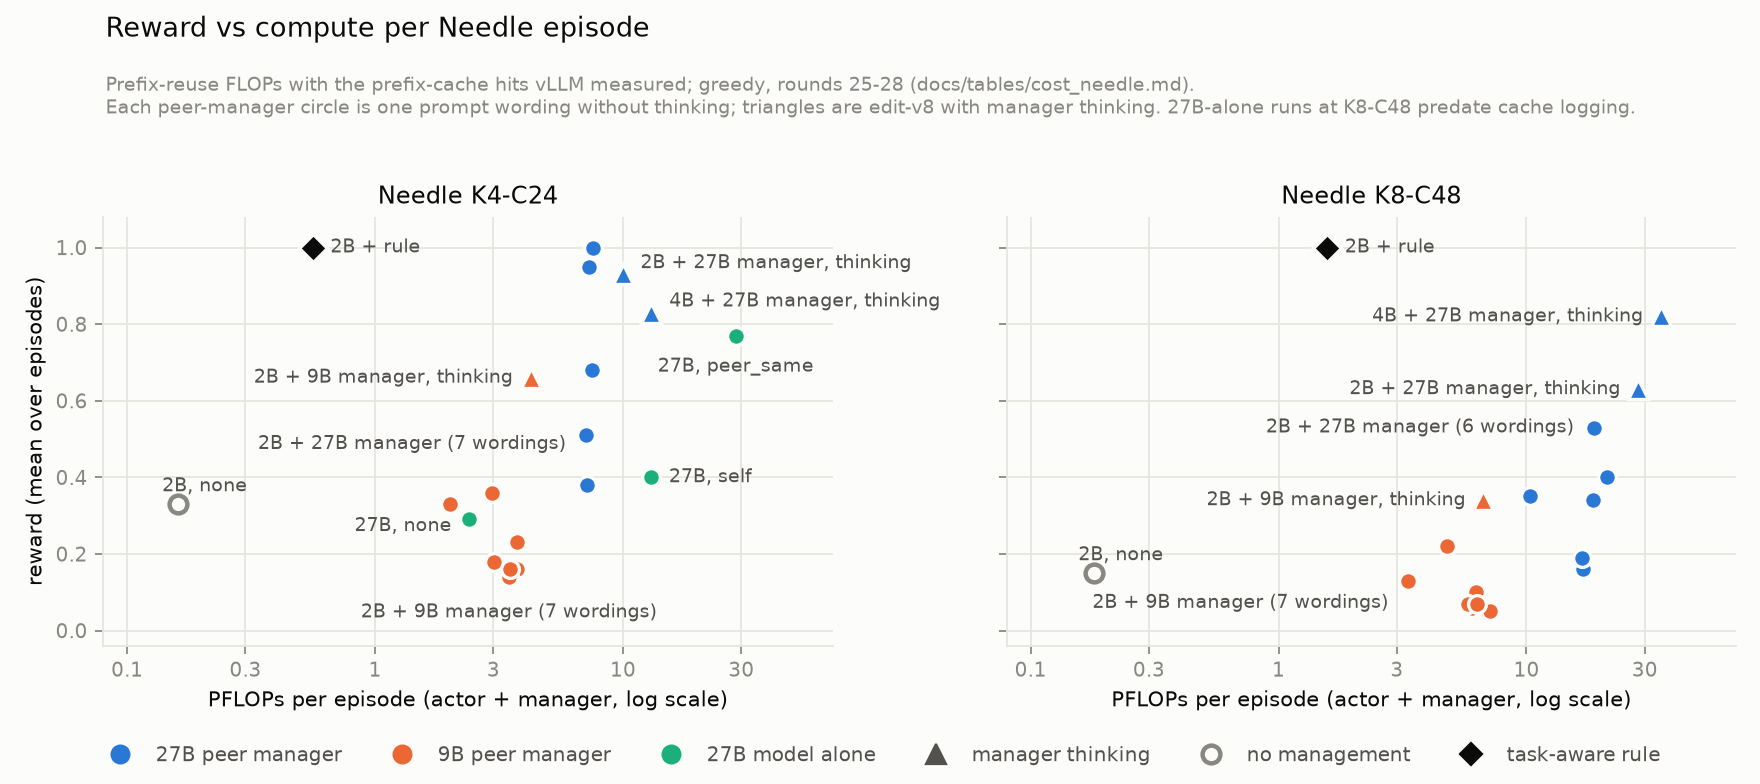
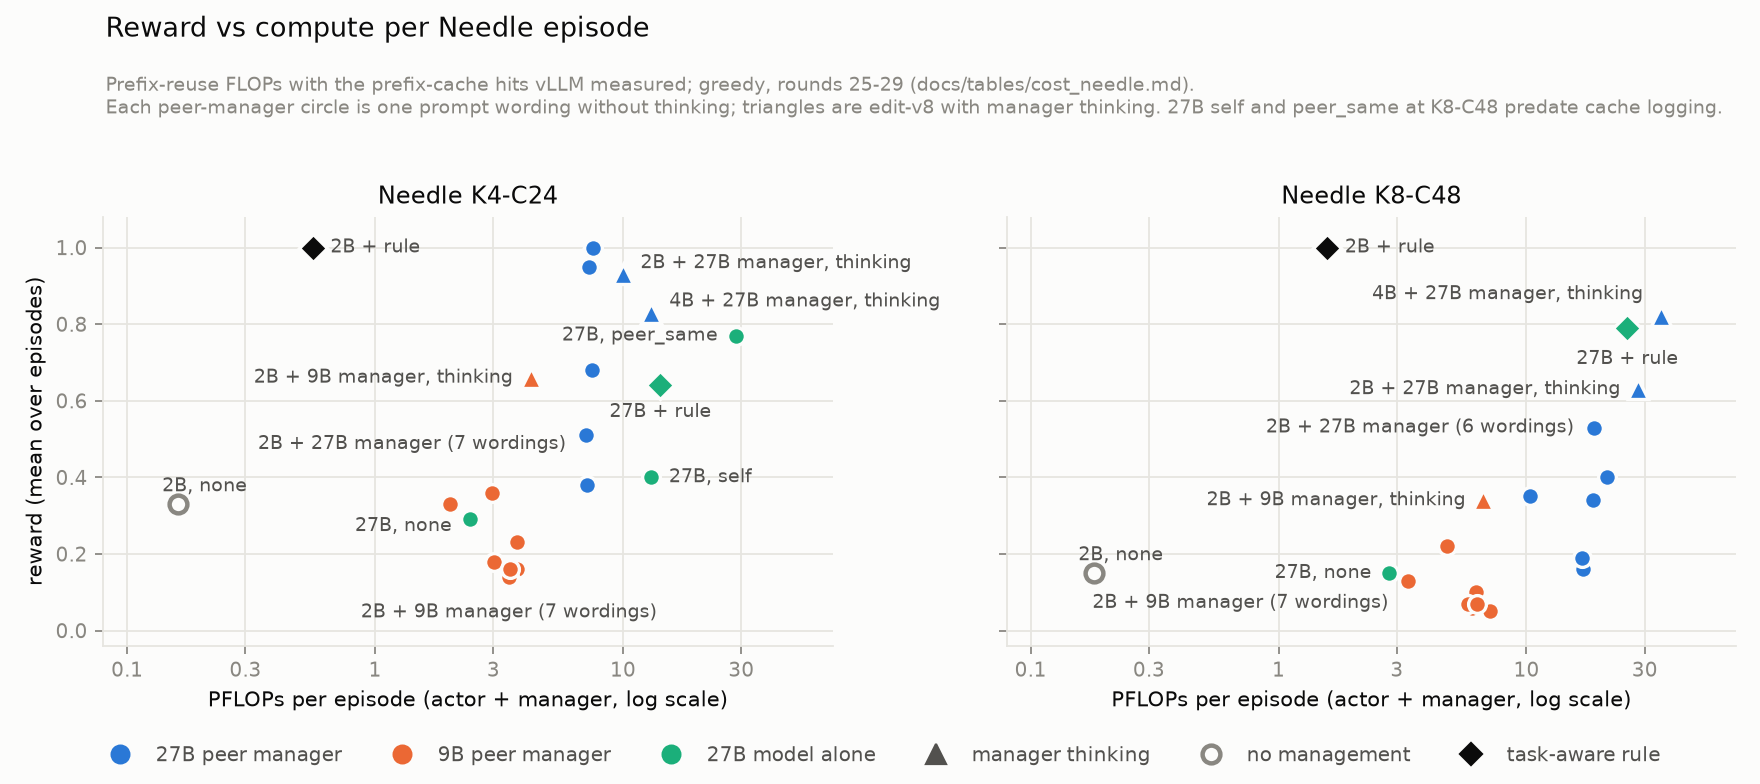
Score round 29: P11 and P12 falsified by the 27B actor's output-cap loop
Job 31451066 (Qwen3.5-27B actor alone, none and rule_needle, greedy):
27B + rule scores 0.64 at K4-C24 and 0.79 at K8-C48, so P11 is falsified
at both levels; the rule kept every delivered needle, but 7 of 8 K4 and
2 of 8 K8 episodes stopped in the output-cap loop. P12 is falsified at
K4-C24 (14.2 PF vs 8.7 predicted) and within 6% at K8-C48. Adds the
episodes to the tables, the 27B + rule point to the cost figure, and the
v2 verdicts to results.md and the outline.

diff --git a/scripts/plot_cost.py b/scripts/plot_cost.py
@@ -33,6 +33,7 @@ GROUPS = {
     ("27B", "none"): ("27B, none", AQUA),
     ("27B", "self"): ("27B, self", AQUA),
     ("27B", "peer_same"): ("27B, peer_same", AQUA),
+    ("27B", "rule_needle"): ("27B + rule", AQUA),
 }
 # Label offsets in points (dx, dy, ha) per (level, label).
 OFFSETS = {
@@ -45,14 +46,17 @@ OFFSETS = {
     ("K4-C24", "4B + 27B manager, thinking"): (8, 5, "left"),
     ("K4-C24", "27B, none"): (-8, -3, "right"),
     ("K4-C24", "27B, self"): (8, 0, "left"),
-    ("K4-C24", "27B, peer_same"): (0, -14, "center"),
+    ("K4-C24", "27B, peer_same"): (-8, 0, "right"),
+    ("K4-C24", "27B + rule"): (0, -12, "center"),
     ("K8-C48", "2B, none"): (-7, 8, "left"),
     ("K8-C48", "2B + rule"): (8, 0, "left"),
     ("K8-C48", "2B + 9B manager"): (-9, -10, "right"),
     ("K8-C48", "2B + 9B manager, thinking"): (-8, 0, "right"),
     ("K8-C48", "2B + 27B manager"): (-9, 0, "right"),
     ("K8-C48", "2B + 27B manager, thinking"): (-8, 0, "right"),
-    ("K8-C48", "4B + 27B manager, thinking"): (-8, 0, "right"),
+    ("K8-C48", "4B + 27B manager, thinking"): (-8, 10, "right"),
+    ("K8-C48", "27B, none"): (-8, 0, "right"),
+    ("K8-C48", "27B + rule"): (0, -14, "center"),
 }
 # Which dot of a multi-wording cluster carries its label.
 ANCHORS = {
@@ -180,9 +184,9 @@ fig.text(
     0.06,
     0.905,
     "Prefix-reuse FLOPs with the prefix-cache hits vLLM measured; greedy, "
-    "rounds 25-28 (docs/tables/cost_needle.md).\nEach peer-manager circle is one prompt "
-    "wording without thinking; triangles are edit-v8 with manager thinking. 27B-alone runs at "
-    "K8-C48 predate cache logging.",
+    "rounds 25-29 (docs/tables/cost_needle.md).\nEach peer-manager circle is one prompt "
+    "wording without thinking; triangles are edit-v8 with manager thinking. 27B self and "
+    "peer_same at K8-C48 predate cache logging.",
     fontsize=8.5,
     color=MUTED,
     ha="left",

diff --git a/docs/results.md b/docs/results.md
@@ -8,7 +8,7 @@ and `peer_<size>` (a fixed manager of another size; mainly `peer_27b`). Managers
 (zero-shot). Each cell has 8 seeds (42–49) unless noted; differences are paired on the same instance.
 Greedy decoding with thinking off unless noted.
 
-Sources: `docs/tables/episodes_vllm.csv` (2,904 episodes), `docs/tables/h200_bf16_pooled.md` (greedy
+Sources: `docs/tables/episodes_vllm.csv` (2,936 episodes), `docs/tables/h200_bf16_pooled.md` (greedy
 grid), `docs/tables/decoding_ablation.md` (greedy vs sampled), `docs/tables/cost_needle.md` (compute
 per episode), `docs/tables/termination_needle.md` (how episodes end; reward = delivered × kept),
 `docs/figures/`. Run log: `CLAUDE.md`.
@@ -26,7 +26,10 @@ points are in "Limits" at the end.
    (`scripts/simulate_rule_needle.py` on `may/track2-baseline`); run live with the 2B actor it also
    scores 1.000 on all 8 seeds at K4-C24 and K8-C48 (job 31255831). So on Needle a manager that helps is
    doing the retention itself; the actor contributes little (0.8B and 2B score alike under the 27B
-   manager). Results 1, 2 and 7 measure how close zero-shot managers get to this rule.
+   manager). The "actor that only advances" is an assumption the 27B actor breaks: with the same rule
+   it scores 0.64 at K4-C24 and 0.79 at K8-C48 (job 31451066), because it restates every needle in
+   each reply until the reply is cut at the output cap and the stream stops (Limits). The rule kept
+   every delivered needle (kept = 1.00); 7 of 8 K4 and 2 of 8 K8 episodes ended in that loop. Results 1, 2 and 7 measure how close zero-shot managers get to this rule.
 
 ## Findings
 
@@ -99,8 +102,8 @@ points are in "Limits" at the end.
    GETs, 4B rarely or never). The 2B actor's ANSWER format breaks when the archive paragraph is added
    (`none_r` 0.00 vs `none` 0.46), so small actors are sensitive to instruction length; 2B is excluded.
 
-6. **Pre-registered validation: no prediction falsified; most informative ones inconclusive.** Ten
-   predictions were committed (`docs/preregistration.md`, tag `prereg-v1`) before new seeds (50–65)
+6. **Pre-registered validation: v1 had none falsified, most informative tests inconclusive; v2 had
+   two falsified by the 27B actor's output-cap loop.** Ten predictions were committed (`docs/preregistration.md`, tag `prereg-v1`) before new seeds (50–65)
    and two held-out levels: 7 confirmed, 3 inconclusive, 0 falsified
    (`docs/preregistration-results.md`). Five were structural guards that could hardly fail (P2: `self`
    equals `none`; P3/P6: `none` is 0 at KV R1000 by construction; P7: archived needles cannot count
@@ -108,6 +111,18 @@ points are in "Limits" at the end.
    2 were confirmed (P1: 27B manager gain on new seeds; P10: gain at the held-out K2-C192 level) and 3
    were inconclusive (P4, P5, P9; see the results file). New seeds reuse each level's layout, so only
    P9–P10 test a new layout.
+   Pre-registration v2 (`docs/preregistration-v2.md`, round 29) has two falsified, one confirmed and
+   one inconclusive:
+   - **P11 falsified:** 27B actor + rule 0.64 (K4-C24) and 0.79 (K8-C48), below 0.90 at both levels.
+     The cause is the output-cap loop (finding 0, Limits); this explanation is post hoc.
+   - **P12 falsified:** 14.2 PF per episode at K4-C24 against 8.7 predicted (+63%); 25.5 PF at
+     K8-C48 against 24.1 (+6%). At K4 the number measures the loop: 7 of 8 episodes made 58 actor
+     calls for 14 of 24 ops, 45 of them cut at the cap.
+   - **P13 confirmed:** recommended sampling does not rescue the 9B manager: `peer_9b` − `none`, both
+     sampled, −0.19 [−0.22, −0.17] at K4-C24 (0/8 seeds) and −0.06 [−0.09, −0.03] at K8-C48 (1/7).
+   - **P14 inconclusive:** protective share 0.03 at K4-C24, 0.14 at K8-C48 (between 0.10 and 0.25).
+     Exploratory: 9B replies cut at the 4,096-token manager cap fall from 0.38 / 0.08 (greedy) to 0 / 0
+     under sampling, and the extra applied edits are unprotected deletes.
 
 7. **Manager-size ladder: without thinking only the 27B manager helps, under seven prompt wordings;
    with thinking both 9B and 27B help, and 27B stays ahead.** Needle, greedy, 8 seeds, `none` rerun
@@ -187,7 +202,7 @@ points are in "Limits" at the end.
    `config.json`; the 27B gives CLM's 48.70 GFLOP/token and 3.93×10⁵ per query-key pair) with the
    prefix-cache hits vLLM measured, and GPU-seconds (summed call latency; actor and manager share one
    H200, one call at a time). Means per episode from `docs/tables/cost_needle.md`, which covers only
-   runs that logged cache hits (rounds 25–28); figure `docs/figures/needle_reward_vs_compute.png`
+   runs that logged cache hits (rounds 25–29); figure `docs/figures/needle_reward_vs_compute.png`
    (`scripts/plot_cost.py`):
 
    | level | system | reward | PFLOPs | manager share | GPU-s |
@@ -201,8 +216,11 @@ points are in "Limits" at the end.
    | K4-C24 | 27B `none` | 0.29 | 2.4 | – | 53 |
    | K4-C24 | 27B `self` | 0.40 | 13.0 | 10% | 576 |
    | K4-C24 | 27B `peer_same` | 0.77 | 28.5 | 48% | 1,312 |
+   | K4-C24 | 27B + `rule_needle` | 0.64 | 14.2 | – | 1,461 |
    | K8-C48 | 2B `none` | 0.15 | 0.18 | – | 5 |
    | K8-C48 | 2B + `rule_needle` | 1.00 | 1.6 | – | 35 |
+   | K8-C48 | 27B `none` | 0.15 | 2.8 | – | 101 |
+   | K8-C48 | 27B + `rule_needle` | 0.79 | 25.5 | – | 1,152 |
    | K8-C48 | 2B + 9B manager, thinking | 0.34 | 6.7 | 93% | 423 |
    | K8-C48 | 2B + 27B manager (`para2`) | 0.53 | 18.7 | 96% | 281 |
    | K8-C48 | 2B + 27B manager, thinking | 0.63 | 28.2 | 97% | 1,503 |
@@ -223,8 +241,9 @@ points are in "Limits" at the end.
      manager with thinking uses 1.3× the FLOPs and 4× the GPU time of v8 for no gain; at K8-C48 it
      adds +0.10 over the best wording without thinking (`para2`) for 1.5× the FLOPs and 5× the GPU
      time.
-   - The 27B `self` and `peer_same` rows include actor turns spent in output-cap loops (Limits), so
-     their cost is partly the loop, not management.
+   - The 27B `self`, `peer_same` and `rule_needle` rows include actor turns spent in output-cap
+     loops (Limits), so their cost is partly the loop, not management (27B + rule at K4-C24: 58 actor
+     calls for 14 ops in 7 of 8 episodes).
    - `none` is cheap because it stops at the budget wall after about 7 of 24 (K4-C24) or 48 (K8-C48)
      operations. FLOPs omit norms, softmax and the DeltaNet state update; GPU-seconds are batch-1
      calls on a shared H200 and do not transfer to other deployments.
@@ -273,9 +292,9 @@ points are in "Limits" at the end.
   so far (smaller actors restate only the current op's, so their replies stay at ~170 tokens at K4
   and ~320 at K8). Once management keeps the context under the wall, the reply grows until it is cut
   at the 2,048-token output cap, before `READY_FOR_NEXT_OP`; the stream does not advance, the runner's
-  reminder yields the same cut reply, and the episode loops until the turn cap. 38 of 120 managed
-  27B-actor Needle episodes end at `max_steps`, 22 of them with their last 5 replies all cut at the
-  cap; for smaller actors it is 0–6 episodes per size (the 4B actor under thinking managers has 5 cap
+  reminder yields the same cut reply, and the episode loops until the turn cap. 47 of 136 managed
+  27B-actor Needle episodes end at `max_steps`, 31 of them with their last 5 replies all cut at the
+  cap (9 of the 31 are 27B + rule, round 29); for smaller actors it is 0–6 episodes per size (the 4B actor under thinking managers has 5 cap
   loops). Doubling the turn cap changed means by +0.02, which is what an absorbing loop predicts; an
   earlier version of this line read that as "the cap is not driving those results", which was wrong.
   27B-actor rewards are lower bounds wherever delivered < 1 (`docs/tables/termination_needle.md`).

diff --git a/report/paper_outline.md b/report/paper_outline.md
@@ -12,14 +12,14 @@ wall its replies hit the output cap and the stream stops; `docs/tables/terminati
 
 | # | Section (pages) | Claim | Carried by | Status |
 |---|---|---|---|---|
-| 1 | Introduction (0.5) | Who edits a small actor's live context matters only through whether the edits preserve before deleting; capability, not role, decides it; external editing costs about T/(T−R) × the same model reading the stream. | Fig. 1: reward vs PFLOPs, Needle K4-C24 and K8-C48 (`docs/figures/needle_reward_vs_compute.png`). | exists; adds the 27B + rule point and the Gemma rows (pending) |
+| 1 | Introduction (0.5) | Who edits a small actor's live context matters only through whether the edits preserve before deleting; capability, not role, decides it; external editing costs about T/(T−R) × the same model reading the stream. | Fig. 1: reward vs PFLOPs, Needle K4-C24 and K8-C48 (`docs/figures/needle_reward_vs_compute.png`). | exists, with the 27B + rule point; Gemma rows pending |
 | 2 | Setup: Needle as a probe with a known policy (0.6) | Needle labels what to keep and a no-LLM rule scores 1.00 at every level, so managers are scored on executing a known policy. KV tests exact recall. Conditions separate role (self vs `peer_same`) from capability (`peer_same` vs fixed larger manager). | Table 1: conditions; rule 1.00 vs `none` 1.00 → 0.04 across levels [0]. | exists |
-| 3 | Who can execute it: the manager ladder (0.8) | Without thinking, only the 27B manager helps, under seven wordings (+0.02 to +0.67); 9B hurts; 4B and same-size do nothing. Thinking partly rescues 9B; 27B with thinking stays ahead. | Table 2: diff vs `none` with CIs (`docs/tables/paired_needle.md`), min/median/max over wordings, ± thinking [1, 7]. | exists; Gemma rows and 9B sampled (P13) pending |
+| 3 | Who can execute it: the manager ladder (0.8) | Without thinking, only the 27B manager helps, under seven wordings (+0.02 to +0.67); 9B hurts; 4B and same-size do nothing. Thinking partly rescues 9B; 27B with thinking stays ahead. | Table 2: diff vs `none` with CIs (`docs/tables/paired_needle.md`), min/median/max over wordings, ± thinking [1, 7]. | exists; 9B sampled done (P13 confirmed); Gemma rows pending |
 | 4 | Why: preserve before delete (0.5) | Gain over `none` tracks the share of manager edits that note or replace: Spearman 0.67 / 0.62 over 119 cells. Necessary, not sufficient: managers that note but never delete hit the wall. | Fig. 2: `docs/figures/needle_protective_vs_gain.png`; event taxonomy (`docs/tables/mechanism_needle.md`) [9]. | exists; replay probe (identical inputs, Qwen + Gemma) pending |
 | 5 | Same-size management and decoding (0.3) | Same-size management never helps ≤ 4B and hurts 9B. The 27B role effect (`peer_same` > `self`) holds under greedy at K4-C24, where both arms receive the whole stream; at K8-C48 and under sampling it is mixed with the 27B actor's output-cap loop. | Table 3: greedy vs sampled (`docs/tables/decoding_ablation.md`), delivered × kept split (`docs/tables/termination_needle.md`) [2, 4]. | exists |
 | 6 | Irreversibility (0.5) | Deletion destroys exact KV recall; archive-with-recall restores it and manager identity stops mattering; the limit becomes the actor's initiative to recall. Agrees with ARC, MemGPT, VISTA. | Table 4: delete vs archive [3, 5]. | exists |
-| 7 | Cost of external management (0.4) | Without prefix-cache hits a peer manager reads about S·T/(T−R) tokens (measured/predicted median 0.94); a 27B manager that keeps little reads each streamed token about once, so a small actor + 27B manager costs about the 27B reading the stream itself. The rule on the 2B actor is cheaper than both. | Eq. 1 + Table 5 (`docs/tables/cost_law_needle.md`, `docs/tables/cost_needle.md`) [8]. | exists; 27B + rule point (P12) pending |
-| 8 | Boundary, pre-registration, limits (0.4) | When relevance needs judgment (MuSiQue), even the best cheap rule loses full evidence for most questions at K = 8, and keeping later hops requires answering earlier ones, so selection and task skill are entangled (stated as a premise with prior art: MuSiQue, IRCoT, IterCOMP). Pre-registration v1: 2 of 5 informative tests confirmed, 3 inconclusive; v2: P11-P14. Limits: one layout per level, two tasks, one model family (plus Gemma), untrained managers; 27B-actor rewards are lower bounds where the output-cap loop stops the stream (report how every cell ends). | Table 6: rule full-recall by K (offline simulation); optional selector-probe result. | simulation exists (scratch); probe optional |
+| 7 | Cost of external management (0.4) | Without prefix-cache hits a peer manager reads about S·T/(T−R) tokens (measured/predicted median 0.94); a 27B manager that keeps little reads each streamed token about once, so a small actor + 27B manager costs about the 27B reading the stream itself. The rule on the 2B actor is cheaper than both. | Eq. 1 + Table 5 (`docs/tables/cost_law_needle.md`, `docs/tables/cost_needle.md`) [8]. | exists; 27B + rule measured (P12 falsified: the K4 number is the output-cap loop) |
+| 8 | Boundary, pre-registration, limits (0.4) | When relevance needs judgment (MuSiQue), even the best cheap rule loses full evidence for most questions at K = 8, and keeping later hops requires answering earlier ones, so selection and task skill are entangled (stated as a premise with prior art: MuSiQue, IRCoT, IterCOMP). Pre-registration v1: 2 of 5 informative tests confirmed, 3 inconclusive; v2: P11 and P12 falsified (27B actor's output-cap loop), P13 confirmed, P14 inconclusive; v3: replay probe (draft). Limits: one layout per level, two tasks, one model family (plus Gemma), untrained managers; 27B-actor rewards are lower bounds where the output-cap loop stops the stream (report how every cell ends). | Table 6: rule full-recall by K (offline simulation); optional selector-probe result. | simulation exists (scratch); probe optional |
 
 ## Figures and tables (main text)
 

diff --git a/docs/tables/termination_needle.md b/docs/tables/termination_needle.md
@@ -13,7 +13,7 @@ Managed episodes (every condition except `none`), by actor:
 - Qwen3.5-2B: 1/448 managed episodes end at `max_steps`, 0 of them in a cap loop; 59/448 have at least one capped actor reply.
 - Qwen3.5-4B: 6/216 managed episodes end at `max_steps`, 5 of them in a cap loop; 10/216 have at least one capped actor reply.
 - Qwen3.5-9B: 0/113 managed episodes end at `max_steps`, 0 of them in a cap loop; 1/113 have at least one capped actor reply.
-- Qwen3.5-27B: 38/120 managed episodes end at `max_steps`, 22 of them in a cap loop; 100/120 have at least one capped actor reply.
+- Qwen3.5-27B: 47/136 managed episodes end at `max_steps`, 31 of them in a cap loop; 116/136 have at least one capped actor reply.
 - Qwen3.5-27B-FP8: 0/8 managed episodes end at `max_steps`, 0 of them in a cap loop; 4/8 have at least one capped actor reply.
 
 | level | actor | condition | manager | version | decoding | n | reward | delivered | kept | done | wall | max_steps | other | capped | episodes with a cap | cap loops |
@@ -31,11 +31,12 @@ Managed episodes (every condition except `none`), by actor:
 | K4-C24 | Qwen3.5-0.8B | self | - | edit-v7 | greedy | 4 | 0.33 | 0.33 | 1.00 | 0 | 4 | 0 | 0 | 0.00 | 0 | 0 |
 | K4-C24 | Qwen3.5-0.8B | self | - | edit-v8 | greedy | 8 | 0.33 | 0.33 | 1.00 | 0 | 8 | 0 | 0 | 0.00 | 0 | 0 |
 | K4-C24 | Qwen3.5-0.8B | self | - | edit-v8 | sampled | 8 | 0.22 | 0.22 | 1.00 | 0 | 8 | 0 | 0 | 0.31 | 3 | 0 |
-| K4-C24 | Qwen3.5-27B | none | - | - | greedy | 25 | 0.29 | 0.29 | 1.00 | 0 | 25 | 0 | 0 | 0.00 | 0 | 0 |
+| K4-C24 | Qwen3.5-27B | none | - | - | greedy | 33 | 0.29 | 0.29 | 1.00 | 0 | 33 | 0 | 0 | 0.00 | 0 | 0 |
 | K4-C24 | Qwen3.5-27B | none | - | - | sampled | 8 | 0.29 | 0.29 | 1.00 | 0 | 8 | 0 | 0 | 0.00 | 0 | 0 |
 | K4-C24 | Qwen3.5-27B | peer_same | Qwen3.5-27B | edit-v7 | greedy | 4 | 0.89 | 0.99 | 0.90 | 3 | 0 | 1 | 0 | 0.45 | 4 | 1 |
 | K4-C24 | Qwen3.5-27B | peer_same | Qwen3.5-27B | edit-v8 | greedy | 20 | 0.78 | 0.97 | 0.80 | 14 | 0 | 6 | 0 | 0.52 | 20 | 3 |
 | K4-C24 | Qwen3.5-27B | peer_same | Qwen3.5-27B | edit-v8 | sampled | 8 | 0.67 | 0.97 | 0.70 | 6 | 0 | 2 | 0 | 0.45 | 7 | 2 |
+| K4-C24 | Qwen3.5-27B | rule_needle | - | rule-needle-v1 | greedy | 8 | 0.64 | 0.64 | 1.00 | 1 | 0 | 7 | 0 | 0.74 | 8 | 7 |
 | K4-C24 | Qwen3.5-27B | self | - | edit-v7 | greedy | 4 | 0.29 | 0.29 | 1.00 | 0 | 4 | 0 | 0 | 0.00 | 0 | 0 |
 | K4-C24 | Qwen3.5-27B | self | - | edit-v8 | greedy | 24 | 0.39 | 0.99 | 0.39 | 23 | 0 | 1 | 0 | 0.16 | 13 | 1 |
 | K4-C24 | Qwen3.5-27B | self | - | edit-v8 | sampled | 8 | 0.60 | 0.91 | 0.69 | 6 | 1 | 1 | 0 | 0.47 | 7 | 0 |
@@ -110,11 +111,12 @@ Managed episodes (every condition except `none`), by actor:
 | K8-C48 | Qwen3.5-0.8B | peer_same | Qwen3.5-0.8B | edit-v8 | greedy | 16 | 0.16 | 0.16 | 1.00 | 0 | 16 | 0 | 0 | 0.00 | 0 | 0 |
 | K8-C48 | Qwen3.5-0.8B | self | - | edit-v7 | greedy | 4 | 0.17 | 0.17 | 1.00 | 0 | 4 | 0 | 0 | 0.00 | 0 | 0 |
 | K8-C48 | Qwen3.5-0.8B | self | - | edit-v8 | greedy | 8 | 0.17 | 0.17 | 1.00 | 0 | 8 | 0 | 0 | 0.00 | 0 | 0 |
-| K8-C48 | Qwen3.5-27B | none | - | - | greedy | 8 | 0.15 | 0.15 | 1.00 | 0 | 8 | 0 | 0 | 0.00 | 0 | 0 |
+| K8-C48 | Qwen3.5-27B | none | - | - | greedy | 16 | 0.15 | 0.15 | 1.00 | 0 | 16 | 0 | 0 | 0.00 | 0 | 0 |
 | K8-C48 | Qwen3.5-27B | none | - | - | sampled | 8 | 0.15 | 0.15 | 1.00 | 0 | 8 | 0 | 0 | 0.00 | 0 | 0 |
 | K8-C48 | Qwen3.5-27B | peer_same | Qwen3.5-27B | edit-v7 | greedy | 4 | 0.34 | 0.45 | 0.75 | 0 | 3 | 1 | 0 | 0.71 | 4 | 0 |
 | K8-C48 | Qwen3.5-27B | peer_same | Qwen3.5-27B | edit-v8 | greedy | 4 | 0.34 | 0.65 | 0.53 | 0 | 1 | 3 | 0 | 0.69 | 4 | 0 |
 | K8-C48 | Qwen3.5-27B | peer_same | Qwen3.5-27B | edit-v8 | sampled | 16 | 0.30 | 0.59 | 0.67 | 5 | 0 | 11 | 0 | 0.79 | 16 | 8 |
+| K8-C48 | Qwen3.5-27B | rule_needle | - | rule-needle-v1 | greedy | 8 | 0.79 | 0.79 | 1.00 | 6 | 0 | 2 | 0 | 0.41 | 8 | 2 |
 | K8-C48 | Qwen3.5-27B | self | - | edit-v7 | greedy | 4 | 0.15 | 0.15 | 1.00 | 0 | 4 | 0 | 0 | 0.35 | 1 | 0 |
 | K8-C48 | Qwen3.5-27B | self | - | edit-v8 | greedy | 8 | 0.14 | 1.00 | 0.14 | 7 | 0 | 1 | 0 | 0.31 | 8 | 0 |
 | K8-C48 | Qwen3.5-27B | self | - | edit-v8 | sampled | 16 | 0.19 | 0.80 | 0.32 | 5 | 0 | 11 | 0 | 0.71 | 16 | 7 |

diff --git a/docs/tables/cost_needle.md b/docs/tables/cost_needle.md
@@ -51,8 +51,9 @@ cached tokens (rounds 25-28). `none` ends at the budget wall after ~7 of 24-48 o
 | K4-C24 | 9B | mask_arc | - | rule-mask-v1 | 9 | 0.12 | 3.11 | 0.00 | 3.11 | 0% | 9.07 | 70% | - | 115 | 0 | 30980396, 30981383 |
 | K4-C24 | 9B | peer_27b | 27B | edit-v8 | 17 | 0.83 | 1.96 | 7.32 | 9.28 | 79% | 14.04 | 72% | 0% | 19 | 95 | 30980396, 30981380 |
 | K4-C24 | 9B | peer_same_arc | 9B | edit-v8-arc | 8 | 0.20 | 0.27 | 1.79 | 2.06 | 87% | 7.23 | 97% | 0% | 25 | 15 | 30981383 |
-| K4-C24 | 27B | none | - | - | 17 | 0.29 | 2.40 | 0.00 | 2.40 | 0% | 7.05 | 69% | - | 53 | 0 | 30980397, 30981390 |
+| K4-C24 | 27B | none | - | - | 25 | 0.29 | 2.41 | 0.00 | 2.41 | 0% | 7.15 | 69% | - | 54 | 0 | 30980397, 30981390, 31451066 |
 | K4-C24 | 27B | self | - | edit-v8 | 16 | 0.40 | 11.75 | 1.24 | 12.99 | 10% | 41.29 | 66% | 92% | 539 | 37 | 30981390 |
+| K4-C24 | 27B | rule_needle | - | rule-needle-v1 | 8 | 0.64 | 14.16 | 0.00 | 14.16 | 0% | 51.61 | 82% | - | 1461 | 0 | 31451066 |
 | K4-C24 | 27B | peer_same | 27B | edit-v8 | 16 | 0.77 | 14.92 | 13.58 | 28.50 | 48% | 60.71 | 76% | 0% | 1103 | 209 | 30981390 |
 | K8-C48 | 0.8B | none | - | - | 8 | 0.17 | 0.09 | 0.00 | 0.09 | 0% | 0.29 | 74% | - | 1 | 0 | 31069247 |
 | K8-C48 | 0.8B | peer_same | 0.8B | edit-v8 | 8 | 0.16 | 0.07 | 0.20 | 0.26 | 75% | 0.47 | 80% | 0% | 1 | 2 | 31069247 |
@@ -84,3 +85,5 @@ cached tokens (rounds 25-28). `none` ends at the budget wall after ~7 of 24-48 o
 | K8-C48 | 4B | peer_9b | 9B | edit-v8+example | 8 | 0.14 | 2.82 | 4.72 | 7.54 | 63% | 12.26 | 65% | 0% | 32 | 19 | 31255826 |
 | K8-C48 | 4B | peer_9b | 9B | edit-v8+mustnote | 8 | 0.06 | 2.72 | 4.48 | 7.20 | 62% | 11.91 | 66% | 0% | 33 | 9 | 31255827 |
 | K8-C48 | 4B | peer_9b | 9B | edit-v8+think | 8 | 0.23 | 1.81 | 5.31 | 7.12 | 75% | 12.26 | 78% | 10% | 110 | 260 | 31262553 |
+| K8-C48 | 27B | none | - | - | 8 | 0.15 | 2.80 | 0.00 | 2.80 | 0% | 7.76 | 69% | - | 101 | 0 | 31451066 |
+| K8-C48 | 27B | rule_needle | - | rule-needle-v1 | 8 | 0.79 | 25.52 | 0.00 | 25.52 | 0% | 70.50 | 69% | - | 1152 | 0 | 31451066 |

diff --git a/CLAUDE.md b/CLAUDE.md
@@ -684,6 +684,17 @@ Timeline: weeks 1–2 tasks + harness + pilot on 0.8B; weeks 3–5 core grid; we
     the 2,048-token output cap before `READY_FOR_NEXT_OP`, the runner's reminder yields the same cut
     reply, and the episode loops to `max_steps` (14/24 ops delivered = 56/96 needles). The rule lost
     nothing. K8 s42 escaped after one cut reply by switching to id ranges; K4 s45 after 9.
+  - 31451066 done (6.3 h, exit 0, a1124u19n01, no vLLM ERROR). 27B + rule: K4-C24 0.64 (7/8 loop,
+    s45 1.00), K8-C48 0.79 (s47/s48 loop at 8/48 and 7/48 ops, 0.17/0.15; others 1.00) → **P11
+    falsified** at both levels. **P12 falsified**: 14.2 PF (K4, +63% vs 8.7) and 25.5 PF (K8, +6% vs
+    24.1). 27B `none` K8-C48 0.15. Termination table now 47/136 managed 27B-actor episodes at
+    `max_steps`, 31 cap loops. Cost figure regenerated with the 27B + rule point.
+  - Replay probe drafted (not submitted): `scripts/replay_probe.py` + `slurm/replay_probe.sbatch` on
+    the harness branch (uncommitted), `docs/preregistration-v3.md` (draft). Single calls rebuilt from
+    31451066 snapshots, arms R1-R6, ~320 calls, one H200.
+  - Process slip: earlier on 2026-10-30 a few read-only `python3` one-liners ran on the Bouchet login
+    node to read logs, against the "no Python on login nodes" rule. Pull run dirs and analyse
+    locally instead.
 - Termination audit (2026-10-30, no GPU; `scripts/termination_audit.py` →
   `docs/tables/termination_needle.md`, after a literature scan and two adversarial reviews): 38/120
   managed 27B-actor Needle episodes end at `max_steps`, 22 in a cap loop; 100/120 have a capped actor
